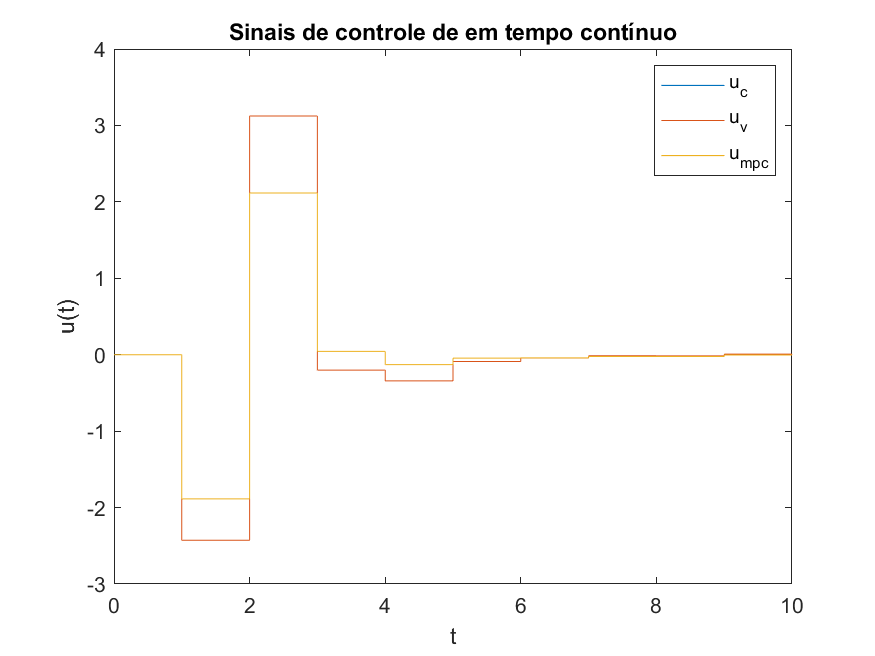
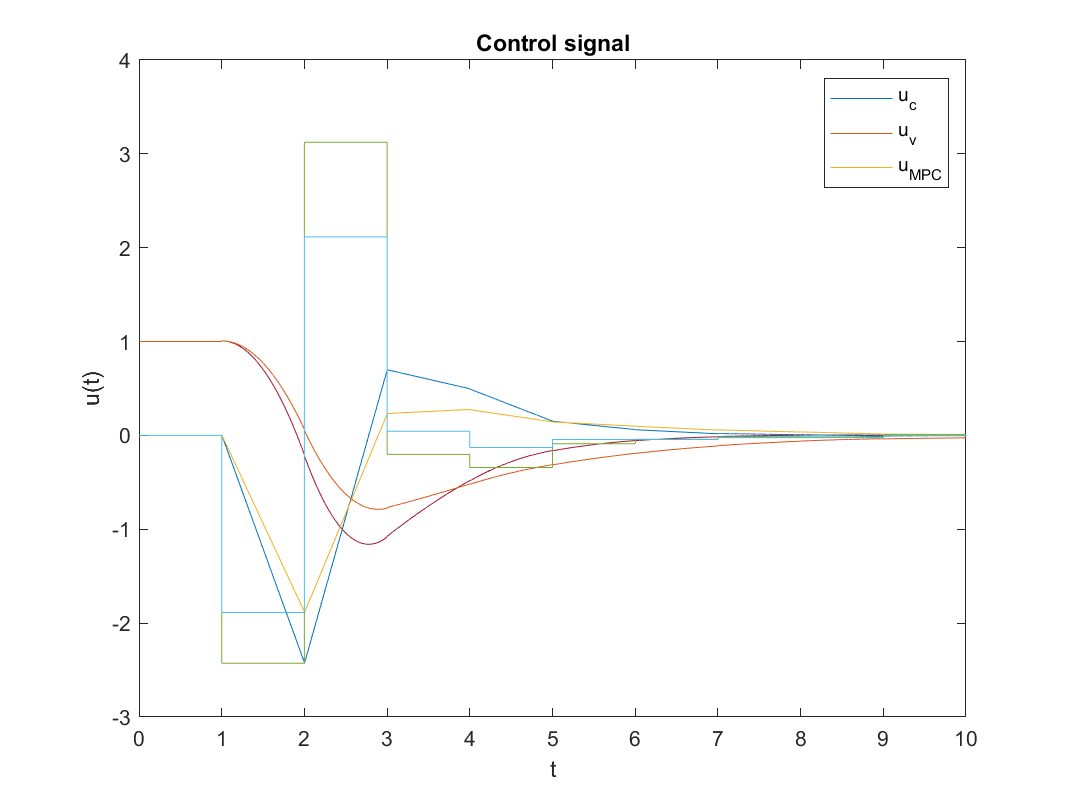
updates plot

diff --git a/avaliacoes/avaliacao1/codigos-aula/plot_x.m b/avaliacoes/avaliacao1/codigos-aula/plot_x.m
@@ -7,6 +7,6 @@ function plot_x(x,x1,x2)
     xlabel('t')
     ylabel('x(t)')
     legend('x_{1_{c}}','x_{2_{c}}','x_{1_{v}}','x_{2_{v}}','x_{1_{MPC}}','x_{2_{MPC}}')
-    title("Estados em tempo contínuo")
+    title("States")
     saveas(gcf,'imgs/plot_x.png')
 end

diff --git a/avaliacoes/avaliacao1/codigos-aula/plot_u.m b/avaliacoes/avaliacao1/codigos-aula/plot_u.m
@@ -7,6 +7,6 @@ function plot_u(u,u1,u2)
     xlabel('t')
     ylabel('u(t)')
     legend('u_c','u_v','u_{MPC}')
-    title("Sinais de controle de em tempo contínuo")
+    title("Control signal")
     saveas(gcf,'imgs/plot_u.png')
 end

diff --git a/avaliacoes/avaliacao1/codigos-aula/plot_y.m b/avaliacoes/avaliacao1/codigos-aula/plot_y.m
@@ -7,6 +7,6 @@ function plot_y(y,y1,y2)
     xlabel('t')
     ylabel('u(t)')
     legend('y_c','y_v','y_{MPC}')
-    title("Saídas em tempo contínuo")
+    title("Response")
     saveas(gcf,'imgs/plot_y.png')
 end
